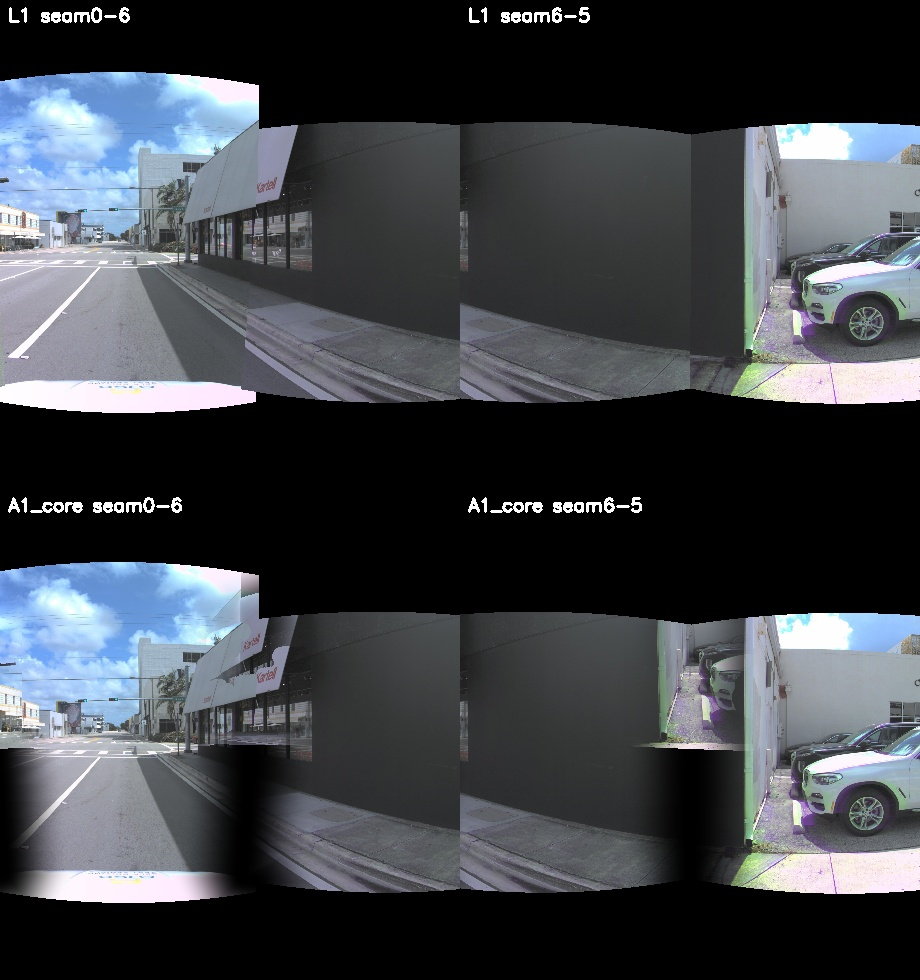
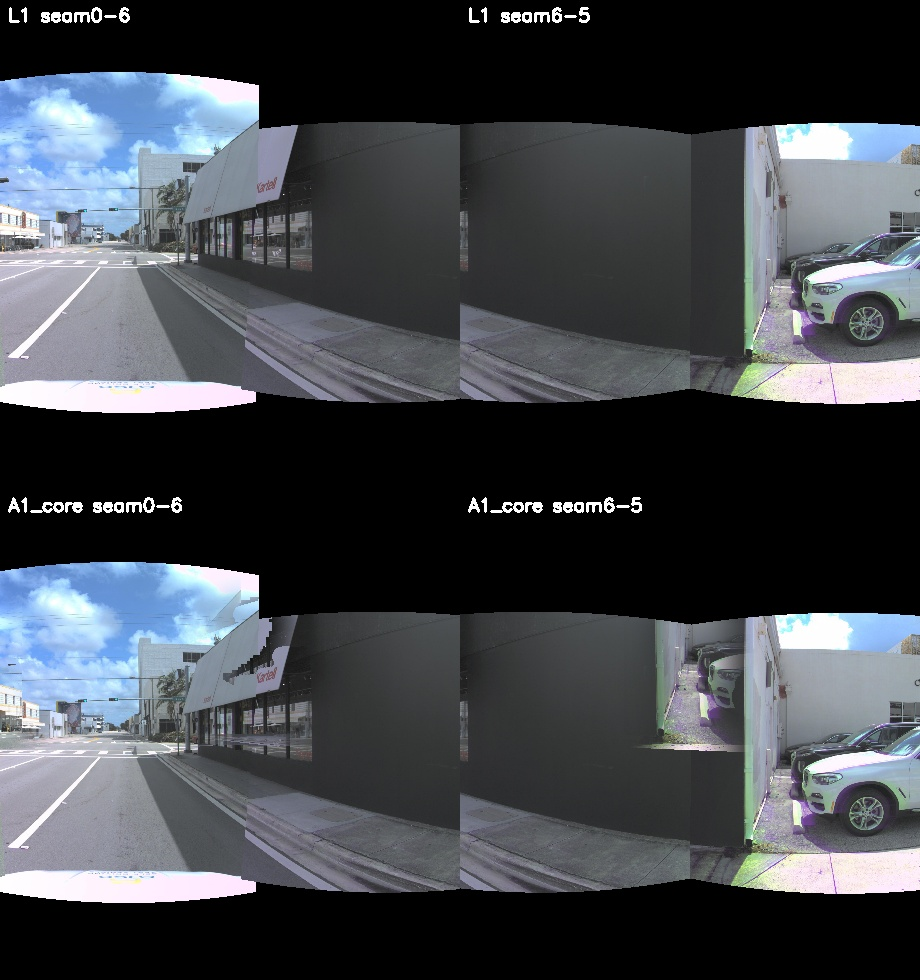
research(results): DB-11 A1 full Google pipeline — flow NEG (starves), core modest L1+
Built + tested the FULL Street-View method with OSS components (pyransac3d, cv2.detail
GraphCut+MultiBand, cv2 DIS flow) + reviewed reproject/confine, with reduced-scale seam
finding for speed. Vision verdict:
- A1_flow (with optical-flow, Google's step 2): NEG — flow starves on textureless surfaces
  -> black/torn blob artifacts across the pano (E3 wall, now inside the full pipeline).
- A1_core (no flow, fixed composite): modest L1+ — ground+BMW preserved, far field byte-clean
  (frac_warp 2.5%), photometric seam hidden, but residual blend-ghosting + does NOT single
  the near-object doubling.
Verdict: Google's method faithfully built tops out at ~L1+ here; doesn't crack the wide-baseline
near-object doubling (flow starves on our textureless/wider-baseline surfaces; planes can't do
non-planar objects). To single doubling -> learned cross-view fusion (DB-02/03), or accept
A1_core/E1.5 as the plausible L1+ deliverable.

diff --git a/scripts/phase3/run_a1_streetview_pipeline.py b/scripts/phase3/run_a1_streetview_pipeline.py
@@ -132,12 +132,21 @@ def off_plane_object_erp(pts, ground, facades, erp_hw, off_thresh=0.6, dilate_px
 
 
 # ---------------- OSS seam + blend (cv2.detail) ----------------
-def detail_seam_blend(slabs_u8, masks_u8):
-    H, W = slabs_u8[0].shape[:2]; K = len(slabs_u8); corners = [(0, 0)] * K
-    imgs_f = [s.astype(np.float32) for s in slabs_u8]
+def detail_seam_blend(slabs_u8, masks_u8, seam_scale=0.33):
+    """OSS seam (GraphCut, at reduced scale for speed — as OpenCV's stitcher does) + full-res
+    MultiBand blend."""
+    H, W = slabs_u8[0].shape[:2]
+    hs, ws = max(1, int(H * seam_scale)), max(1, int(W * seam_scale))
+    corners_s = [(0, 0)] * len(slabs_u8)
+    imgs_s = [cv2.resize(s, (ws, hs), interpolation=cv2.INTER_AREA).astype(np.float32) for s in slabs_u8]
+    masks_s = [cv2.resize(m, (ws, hs), interpolation=cv2.INTER_NEAREST) for m in masks_u8]
     sf = cv2.detail_GraphCutSeamFinder("COST_COLOR_GRAD")
-    seam = sf.find(imgs_f, corners, [m.copy() for m in masks_u8])
-    seam = [np.asarray(m.get() if hasattr(m, "get") else m) for m in seam]
+    seam_s = sf.find(imgs_s, corners_s, [m.copy() for m in masks_s])
+    seam_s = [np.asarray(m.get() if hasattr(m, "get") else m) for m in seam_s]
+    seam = []  # upscale seam masks to full res, clamp to full-res validity
+    for ms, mfull in zip(seam_s, masks_u8):
+        up = cv2.resize(ms, (W, H), interpolation=cv2.INTER_NEAREST)
+        seam.append((((up > 0) & (mfull > 0)).astype(np.uint8)) * 255)
     bl = cv2.detail_MultiBandBlender(); bl.prepare((0, 0, W, H))
     for s, m in zip(slabs_u8, seam):
         bl.feed(s.astype(np.int16), m, (0, 0))

diff --git a/agent/progress.md b/agent/progress.md
@@ -3,7 +3,9 @@
 > ### 2026-06-02 (A1 — FULL Google-style pipeline, IN PROGRESS) — [DB-11 A1: build the ACTUAL Street-View method (the steps A0 skipped), with OPEN-SOURCE components (per user: review-before-reuse + prefer OSS). CORE (no flow) vision-judged MIXED; the optical-flow step is running.]
 > **Built (OSS where it exists; reviewed where ours):** plane fit = `pyransac3d` (OSS) · ERP plane-DIBR reproject = our `render_camera_to_erp` (reviewed ✓) · non-planar-object mask = LiDAR points off ALL fitted planes → kept as L1 single-cam · object-aware seam = `cv2.detail.GraphCutSeamFinder` (OSS) · multiband blend = `cv2.detail.MultiBandBlender` (OSS) · CONFINE+COMPOSITE onto L1 (far field byte-exact) via our `_seam_alpha`/`_label_and_base` (reviewed ✓) · optional residual align = `cv2.DISOpticalFlow` (OSS, `--flow`). Driver `scripts/phase3/run_a1_streetview_pipeline.py`. (cv2.detail + DIS + pyransac3d APIs smoke-tested before building.)
 > **A1_core (no flow) — VISION-judged MIXED (eyes, `deliverables/a1_streetview_pipeline/A1_core_*`):** ✓ FIXED A0's two worst breakages: near-GROUND preserved (compositing onto L1, not hard-replace) and the white BMW NOT sliced (non-planar object kept as L1, 3.66% of ERP). ✗ BUT the storefront 'Kartell' sign is **DOUBLED** at the left seam — blending two plane-aligned-but-imperfectly-aligned cameras WITHOUT the flow step ghosts (the doubling re-appears as blend-ghost). ✗ dark/black patches at band bottoms (compositing bug — feather darkened toward black where the plane-DIBR slab was empty) → **FIXED** (only blend where stitched has content). **→ confirms Google's optical-flow residual step (step 2) is REQUIRED: plane + blend ALONE still doubles.**
-> **NOW: re-running with `--flow` (DIS optical-flow align in the band — the step that makes overlaps TRULY agree before blending) + the composite fix. Vision verdict appended when done. HONEST PRIOR: our E3 history says flow STARVES on textureless mid-range, so flow may help the textured sign but not the blank wall — watch for that.** Locations — GitHub committed; local `deliverables/a1_streetview_pipeline/`; Drive `results/a1_streetview_pipeline/`.
+> **A1_flow (WITH DIS optical-flow, composite fixed) — VISION-judged NEG:** the optical-flow residual step (Google's step 2) STARVES on our textureless mid-range (dark wall, low-gradient facades) → multiple BLACK / torn blob artifacts scattered across the pano (`A1_flow_L1_vs_result.jpg`, `A1_flow_seam_crops.jpg`). This is the E3 wall AGAIN, now INSIDE the full Google pipeline. Flow as-is is unusable here. (Gating flow by FB-consistency would just revert to the no-flow result — not single the doubling.)
+> **A1_core (composite fixed, NO flow) — VISION-judged the best of the build, but MODEST:** far field ~byte-clean vs L1 (frac_warp 2.5%, M_p90 1.36px), near-ground preserved, BMW intact, photometric seam hidden — BUT residual blend-GHOSTING on imperfectly-aligned textured regions (the 'Kartell' sign) + an occasional stray blend artifact (a 'face/figure' pulled in at a wall corner), and it does NOT SINGLE the near-object doubling (it blends/hides). ≈ a modest 'L1+' in the spirit of E1.5, NOT a doubling solver.
+> **★ VERDICT (DB-11 / Route A — the FULL Google method now ACTUALLY built + tested with our LiDAR + OSS cv2.detail/DIS/pyransac3d):** Google's pipeline, faithfully implemented, tops out at ~L1+ here and does NOT crack the wide-baseline near-object doubling — because its key residual step (optical flow) STARVES on our textureless surfaces (Street View has a tighter rig + more texture + openly tolerates residual) and planes can't represent non-planar near objects. **This is the same fundamental wall, now confirmed THROUGH the referenced method (the user rightly insisted we build the whole thing before concluding).** → To actually SINGLE the near doubling, learned routes that fuse via real cross-view evidence are needed (DB-02 Difix-on-band 3DGS, DB-03 EPI-Mix); OR accept A1_core / E1.5 as the honest PLAUSIBLE 'L1+' deliverable (no breakage, photometric seam hidden, doubling not singled). Bring to user. Locations — GitHub committed; local `deliverables/a1_streetview_pipeline/`; Drive `results/a1_streetview_pipeline/`.
 > ---
 
 > ### 2026-06-02 (A0 — RUNNING, pre-registered) — [DB-11 step A0: COARSE-PLANE LiDAR-DIBR kill-test on BMW. Does a robust fitted plane (ground+facade) align adjacent cameras at the seam (NCC↑) vs rotation-only L1, WITHOUT the per-pixel-LiDAR smear of E2?]

diff --git a/agent/decision_briefs.md b/agent/decision_briefs.md
@@ -30,7 +30,8 @@ Result summary: TBD. Full details in `agent/progress.md#...`
 > **Context (2026-06-02):** the user wants two parallel routes — **A = Google-Street-View-style plausible multi-center** (warp REAL overlapping pixels into agreement, hide seams, LiDAR-guided) and **B = DiT360 refined with a real-evidence leash** — toward the ultimate goal of a near-perfect **PLAUSIBLE** seam (no hallucinated salient objects). The briefs below come from the 2026-06-02 divergent+adversarial ideation (`agent/BRAINSTORM-2026-06-02-seam-path-forward.md`, workflow `wf_1fc2d59b-bb5`). **▶ LEAD / FIRST TO DO = DB-11** (Street-View coarse-plane LiDAR-DIBR program, immediately below) — it sequences the cheap de-risk (DB-01 = its step A0) + the eval (DB-05) + PowerPaint (DB-06 = its A4), with per-seam-convergence (DB-04) as a PIVOT fallback. **Start A0 on CPU.** Keep DB-02 (Difix-on-band) and DB-03 (EPI-Mix) as the heavier alternative POSITION mechanisms to fall back to if DB-11 pivots.
 
 # DB-20260602-11: ▶ LEAD — Street-View-style COARSE-PLANE LiDAR-DIBR panorama (Route A primary program)
-Status: A0 DONE → **NEG/MIXED (corrected 2026-06-02)** → PIVOT (do NOT proceed to A1 as planned)
+Status: A0 NEG/MIXED → A1 FULL pipeline BUILT+TESTED (2026-06-02) → **Route A ceiling ≈ L1+; does NOT single near-object doubling** → decision: pivot to DB-02/03 OR accept A1_core/E1.5
+A1 result: Built the FULL Google method with OSS (pyransac3d / cv2.detail GraphCut+MultiBand / cv2 DIS) + reviewed reproject/confine. **A1_flow = NEG** (optical-flow residual STARVES on textureless → black/torn artifacts; E3 wall inside the full pipeline). **A1_core (no flow) = modest L1+** (ground+BMW preserved, far field byte-clean, photometric seam hidden, but residual blend-ghost + does NOT single doubling). VERDICT: the referenced Google method, faithfully built, tops out at ~L1+ here (its flow step starves on our textureless/wider-baseline surfaces; planes can't do non-planar objects). To single the doubling → learned cross-view fusion (DB-02/03). Figs `deliverables/a1_streetview_pipeline/`; full facts `progress.md` 2026-06-02 A1 entry.
 A0 result: NEG/MIXED. Aggregate seam NCC rose (L1 0.822 → plane 0.884) but that MASKED real visual regressions (user-caught, vision-confirmed): full-frame coarse-plane re-render LOSES near-ground (reprojected out of FoV → black), MISALIGNS a building at a seam (approx facade fit), and SLICES the white BMW SUV (a non-planar near object reprojected at the wrong plane depth). LESSON: aggregate NCC is not a sufficient gate; eyeball every output for content-loss/sliced-objects. **REFINED:** A0 only implemented Google STEP 1 (coarse-plane reproject) and naively (full hard replace); it did NOT do Google's steps 2-4 (optical-flow warp + object-aware seam routing + blend/COMPOSITE onto L1) — which are exactly what handle the sliced car / misaligned building / lost ground. So "geometry can't" was premature; the real A1 = build the FULL composited Google-faithful pipeline, then vision-judge. Caveat: E3 flow starved on textureless + selection exhausted + our baseline wider than Street View → genuine uncertainty, not yet fairly tested. Full facts: `progress.md` 2026-06-02 A0 entry; figs `deliverables/a0_plane_dibr_probe/`.
 Route: A (the lead Route-A program. ABSORBS/SEQUENCES: DB-01 = its A0; DB-05 = its eval; DB-06 = its A4; DB-04 = a PIVOT fallback; DB-02/DB-03 = heavier alternative position mechanisms if this pivots)
 Progress link: TBD (this session: a Colab CPU runtime is up)
